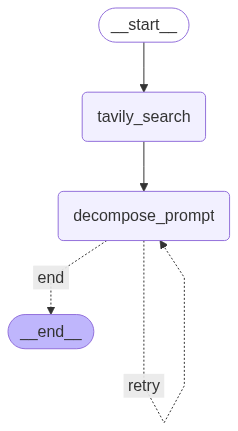
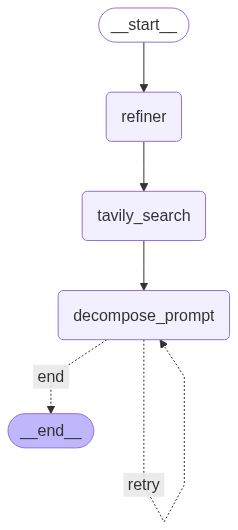
Task Decomposer Agent finished

diff --git a/agents/taskDecomposer/task_decomposer.py b/agents/taskDecomposer/task_decomposer.py
@@ -1,5 +1,5 @@
 from langchain_openai import ChatOpenAI
-from langchain_core.messages import SystemMessage
+from langchain_core.messages import SystemMessage, HumanMessage
 from langchain_tavily import TavilySearch
 
 from langgraph.graph import StateGraph
@@ -16,11 +16,13 @@ from pydantic import BaseModel, Field
 import prompts
 
 ''' Constants '''
-load_dotenv(dotenv_path= Path(__file__).resolve().parent.parent.parent / ".env")
+load_dotenv(dotenv_path= Path(__file__).resolve().parent.parent.parent / '.env')
 
-OPENROUTER_API_KEY = os.getenv("OPENROUTER_API_KEY")
-TAVILY_API_KEY = os.getenv("TAVILY_API_KEY")
-DEBUG = os.getenv("DEBUG")
+OPENROUTER_API_KEY = os.getenv('OPENROUTER_API_KEY')
+TAVILY_API_KEY = os.getenv('TAVILY_API_KEY')
+DEBUG = os.getenv('DEBUG')
+
+print('\n[INFO] [AGENT] Task Decomposer') if DEBUG else None
 
 ''' Ouput Schemas '''
 class SingleAgentPlan(BaseModel):
@@ -45,6 +47,7 @@ class TaskPlan(BaseModel):
 ''' Input Schema '''
 class TaskDecomposerState(BaseModel):
     user_input: str
+    refined_input: str = ''
     output: Optional[TaskPlan] = None
     error: Optional[str] = None
     should_stop: bool = False
@@ -59,8 +62,11 @@ class TaskDecomposerState(BaseModel):
 
 
 ''' Tools '''
-tavily_tool = TavilySearch(
+tavily_search_tool = TavilySearch(
     tavily_api_key= TAVILY_API_KEY
+)
+tavily_tool = tavily_search_tool.as_tool(
+    description= 'Use Tavily to search the web for relevant information to help you refine the user input.'
 )
 
 
@@ -71,36 +77,62 @@ llm = ChatOpenAI(
     model= 'deepseek/deepseek-chat-v3-0324:free', 
     temperature=0
 )
+refiner = llm.bind_tools([tavily_tool])
 
 
 ''' Nodes'''
+def refine_user_input(state: TaskDecomposerState) -> TaskDecomposerState:
+    print('\n[NODE] refine_user_input') if DEBUG else None
+    try:
+        prompt = prompts.REFINE_INPUT_PROMPT
+
+        # call the LLM, and ensure it returns a TaskPlan
+        refined_text = refiner.invoke(
+            [SystemMessage(content= prompt), HumanMessage(content= state.user_input)]
+        ).content.strip().replace('"', '').replace("'", "")
+
+        print(f'[NODE] [INFO] Refined input: {refined_text}') if DEBUG else None
+
+        return state.model_copy(update={'refined_input': refined_text})
+
+    except Exception as e:
+        print('[NODE] [ERR]', e) if DEBUG else None
+        return state.model_copy(update={'error': str(e)})
+
+
 def tavily_search(state: TaskDecomposerState) -> TaskDecomposerState:
     '''
     Use Tavily to search the web for relevant information about the topic.
     '''
     print('\n[NODE] tavily_search') if DEBUG else None
     try:
-        # Run the search using the original prompt
-        result = tavily_tool.invoke(state.user_input)
+        # Run the search using the refined input or the original user input
+        search_query = state.refined_input or state.user_input
+        result = tavily_search_tool.invoke(search_query)
 
         # Parse the output to get a summary of the web findings
         summary_lines = []
-        for i, entry in enumerate(result.get("results", [])):
-            title = entry.get("title", "Untitled")
-            content = entry.get("content", "")[:500].strip()
-            score = entry.get("score", 'No score found')
+        for i, entry in enumerate(result.get('results', [])):
+            title = entry.get('title', 'Untitled')
+            content = entry.get('content', '')[:500].strip()
+            score = entry.get('score', 'No score found')
+            if score < 0.35: # Skip irrelevant results
+                continue
 
-            summary_lines.append(f"{i}. Score: {score} - {title}\n  {content}\n")
+            summary_lines.append(f'{i}. Score: {score} - {title}\n  {content}\n')
 
-        web_summary = "\n---\n".join(summary_lines) if summary_lines else "No relevant web results found."
+        web_summary = '\n---\n'.join(summary_lines) if summary_lines else 'No relevant web results found.'
 
         # Format the new input with web findings appended
         enriched_input = (
-            f'{state.user_input.strip()}\n\n'
-            f'#### Web Findings:\nScore is a number between 0 and 1, with 1 being the most relevant.\n{web_summary}\n'
+            f'User input: {state.user_input.strip()}\n\n'
+            f'Refined input: {state.refined_input.strip()}\n\n'
+            f'---\n\n'
+            f'#### Web Findings (query: "{search_query}"):\n'
+            f'Score is 0-1, with 1 most relevant.\n{web_summary}\n'
         )
 
-        print(f'[NODE] [INFO] Original prompt: {state.user_input}\nEnriched prompt: {enriched_input}') if DEBUG else None
+        print(f'[NODE] [INFO] Enriched input: {enriched_input}') if DEBUG else None
 
         return state.model_copy(update={'user_input': enriched_input})
     
@@ -120,7 +152,7 @@ def decompose_prompt(state: TaskDecomposerState) -> TaskDecomposerState:
         # format the prompt
         agent_ideas = (
             json.dumps(state.output.model_dump(), indent=4)
-            if state.output else "{}"
+            if state.output else '{}'
         )
 
         prompt = prompts.TASK_DECOMPOSER_PROMPT.format(
@@ -148,8 +180,8 @@ def decompose_prompt(state: TaskDecomposerState) -> TaskDecomposerState:
         return state.model_copy(update={'error': str(e)})
 
 
-''' Conditional Nodes '''
-def should_continue(state: TaskDecomposerState) -> Literal['decompose_prompt', '__end__']:
+''' Conditional Functions '''
+def should_continue(state: TaskDecomposerState) -> Literal['decompose_prompt', 'end']:
     '''
     This node checks if the task decomposition should continue.
     '''
@@ -160,10 +192,12 @@ def should_continue(state: TaskDecomposerState) -> Literal['decompose_prompt', '
 ''' Graph '''
 task_decomposer_graph = StateGraph(TaskDecomposerState)
 
-task_decomposer_graph.add_node('decompose_prompt', decompose_prompt)
+task_decomposer_graph.add_node('refiner', refine_user_input)
 task_decomposer_graph.add_node('tavily_search', tavily_search)
+task_decomposer_graph.add_node('decompose_prompt', decompose_prompt)
 
-task_decomposer_graph.add_edge(START, 'tavily_search')
+task_decomposer_graph.add_edge(START, 'refiner')
+task_decomposer_graph.add_edge('refiner', 'tavily_search')
 task_decomposer_graph.add_edge('tavily_search', 'decompose_prompt')
 task_decomposer_graph.add_conditional_edges(
     'decompose_prompt', 
@@ -196,19 +230,18 @@ if __name__ == '__main__':
     config = {
         'configurable': {
             'user_id': 'Test-TaskDecomposer',
-            "run_name": "Test-TaskDecomposer",
-            "tags": ["TaskDecomposer", "deepseek"],
-            "metadata": {"user_case": "tool-creating-agent"}
+            'run_name': 'Test-TaskDecomposer',
+            'tags': ['TaskDecomposer', 'deepseek'],
+            'metadata': {'user_case': 'tool-creating-agent'}
         }
     }
-
-
 
     # Run the graph
     # 'I want an agent that knows about dolphins.'
     # 'I want an agent to help me, guide me and test me on my math course.'
     # 'I want an agent that thinks and creates tools for LLM agents to use, for specific topics, which will be provided by the user.'
-    user = TaskDecomposerState(user_input= 'I want an agent to help me about the most difficult topic today.')
+    # 'I want an agent that helps me about the most difficult topic today (1).'
+    user = TaskDecomposerState(user_input= 'I want an agent to help me, guide me and test me on my math course.')
     result = task_decomposer_app.invoke(user, config)
 
     print('\n[MAIN]', result)

diff --git a/agents/taskDecomposer/prompts.py b/agents/taskDecomposer/prompts.py
@@ -1,3 +1,14 @@
+from datetime import datetime
+
+REFINE_INPUT_PROMPT = f"""
+# Your goal
+You are an expert task interpreter and refinement assistant.
+Your job is to rewrite vague or ambiguous user requests into concrete, specific, factual, and up-to-date ({datetime.today().strftime('%Y-%m-%d')}) queries suitable for web search or LLM input.
+You may use the Tavily Web Search tool if needed to find context.
+
+Output only the refined query, nothing else.
+"""
+
 TASK_DECOMPOSER_PROMPT = """
 You are an expert AI assistant planner.
 
